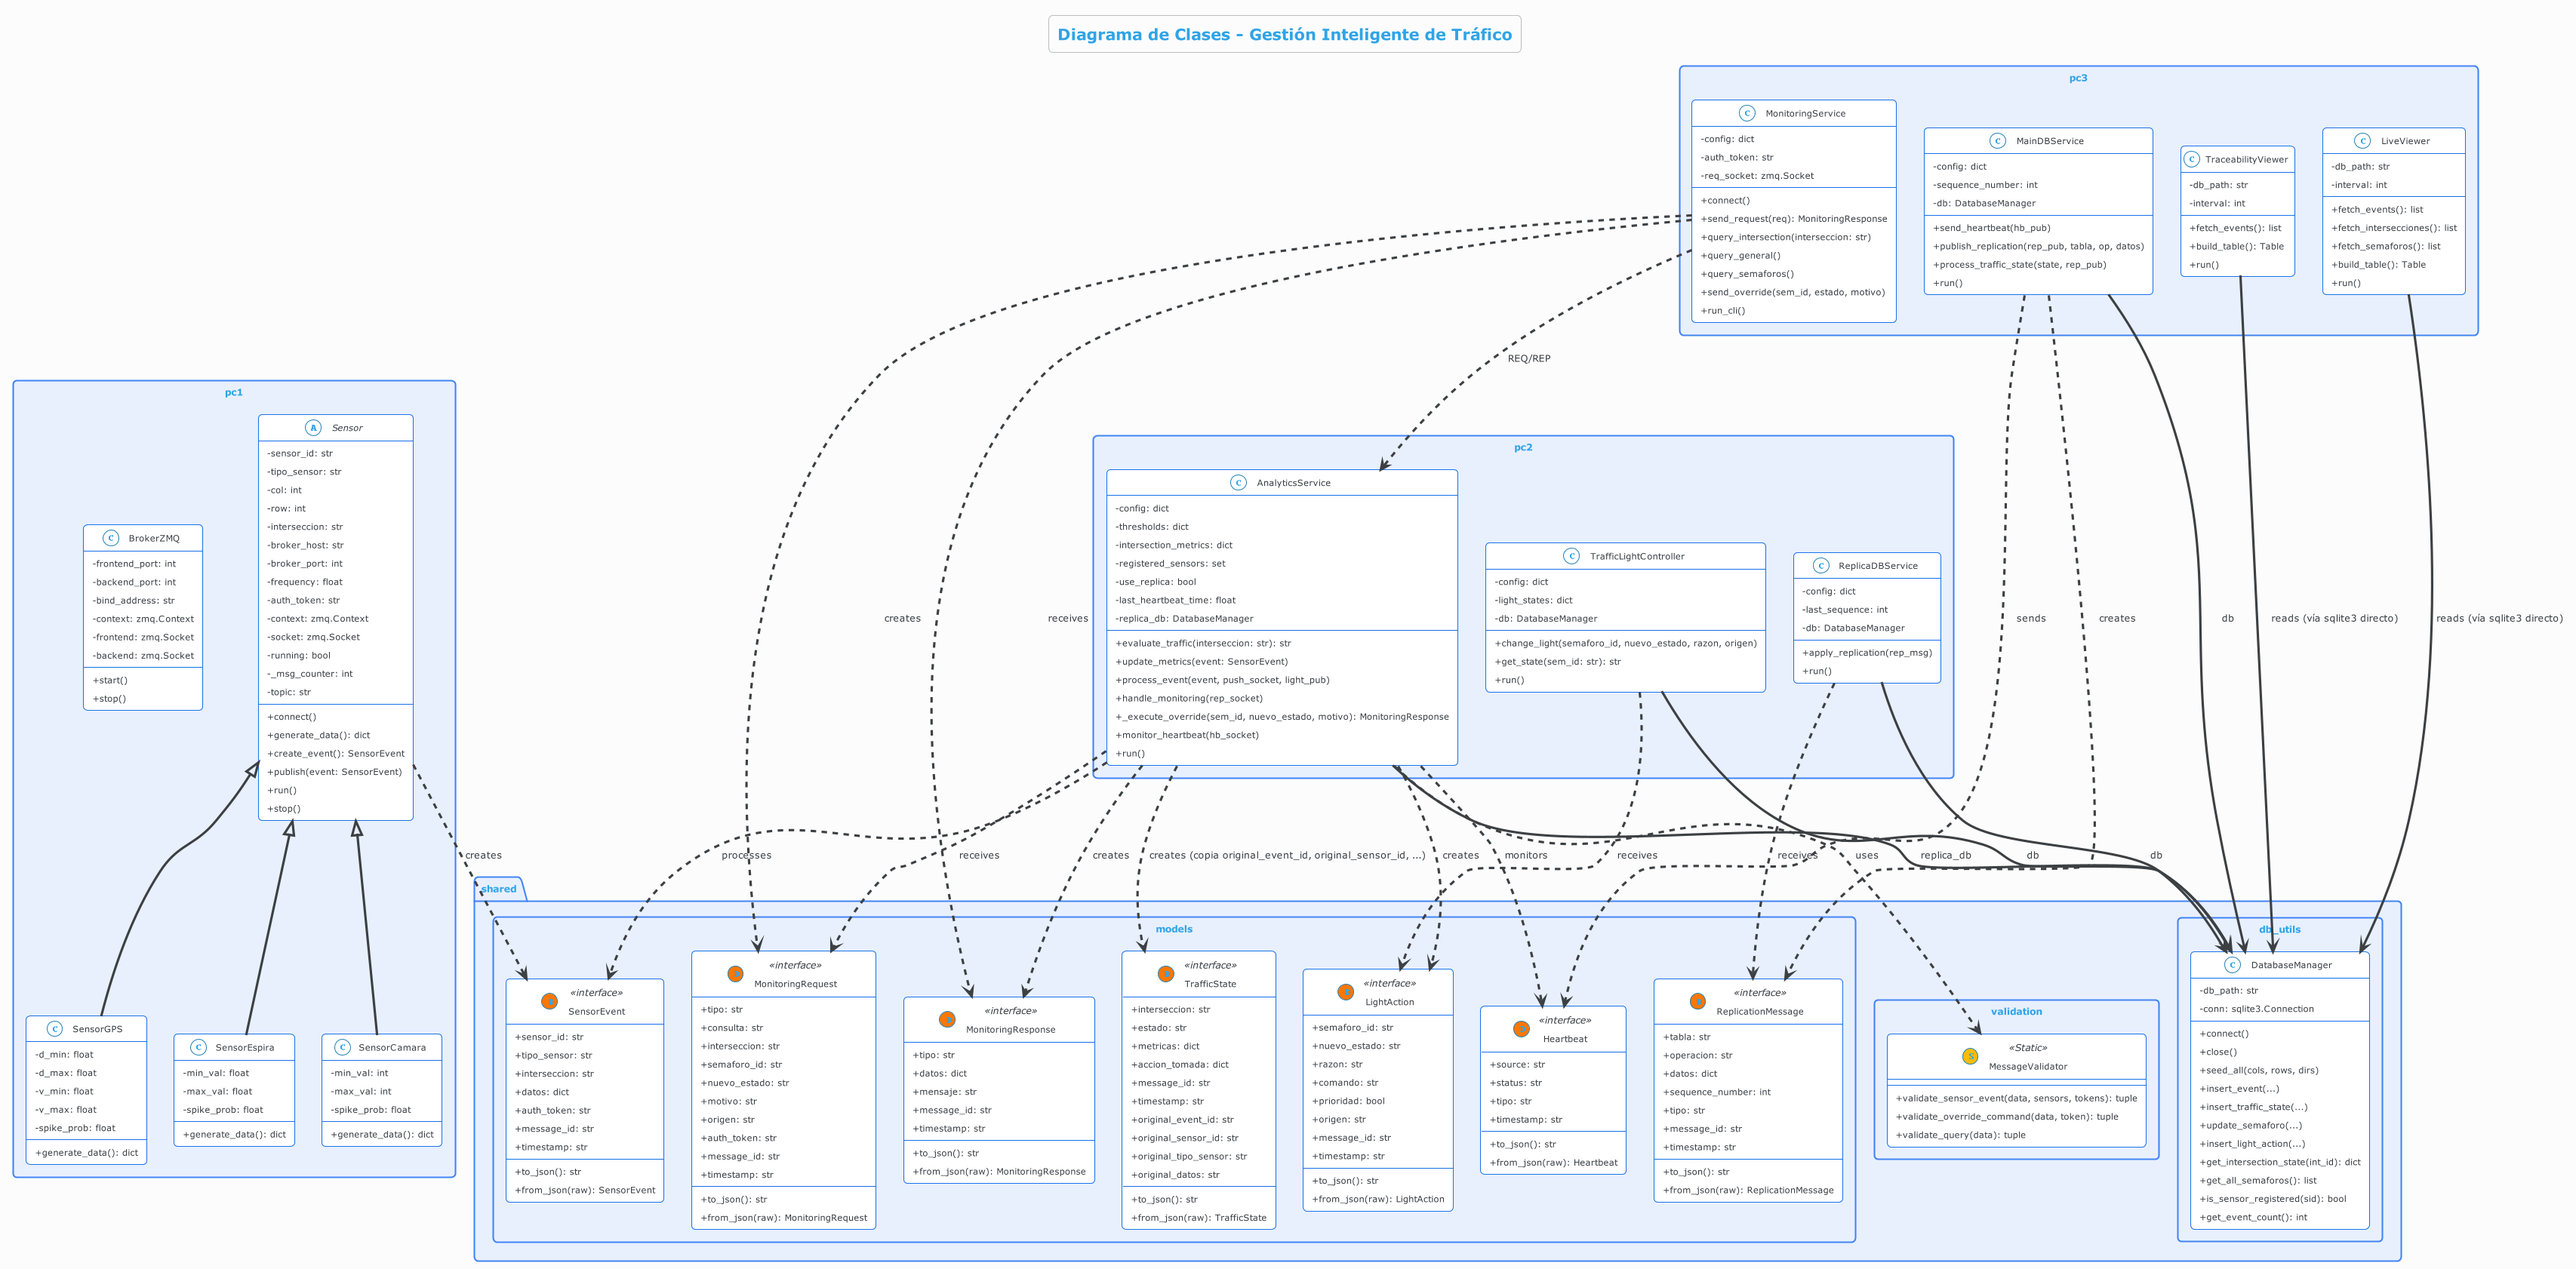
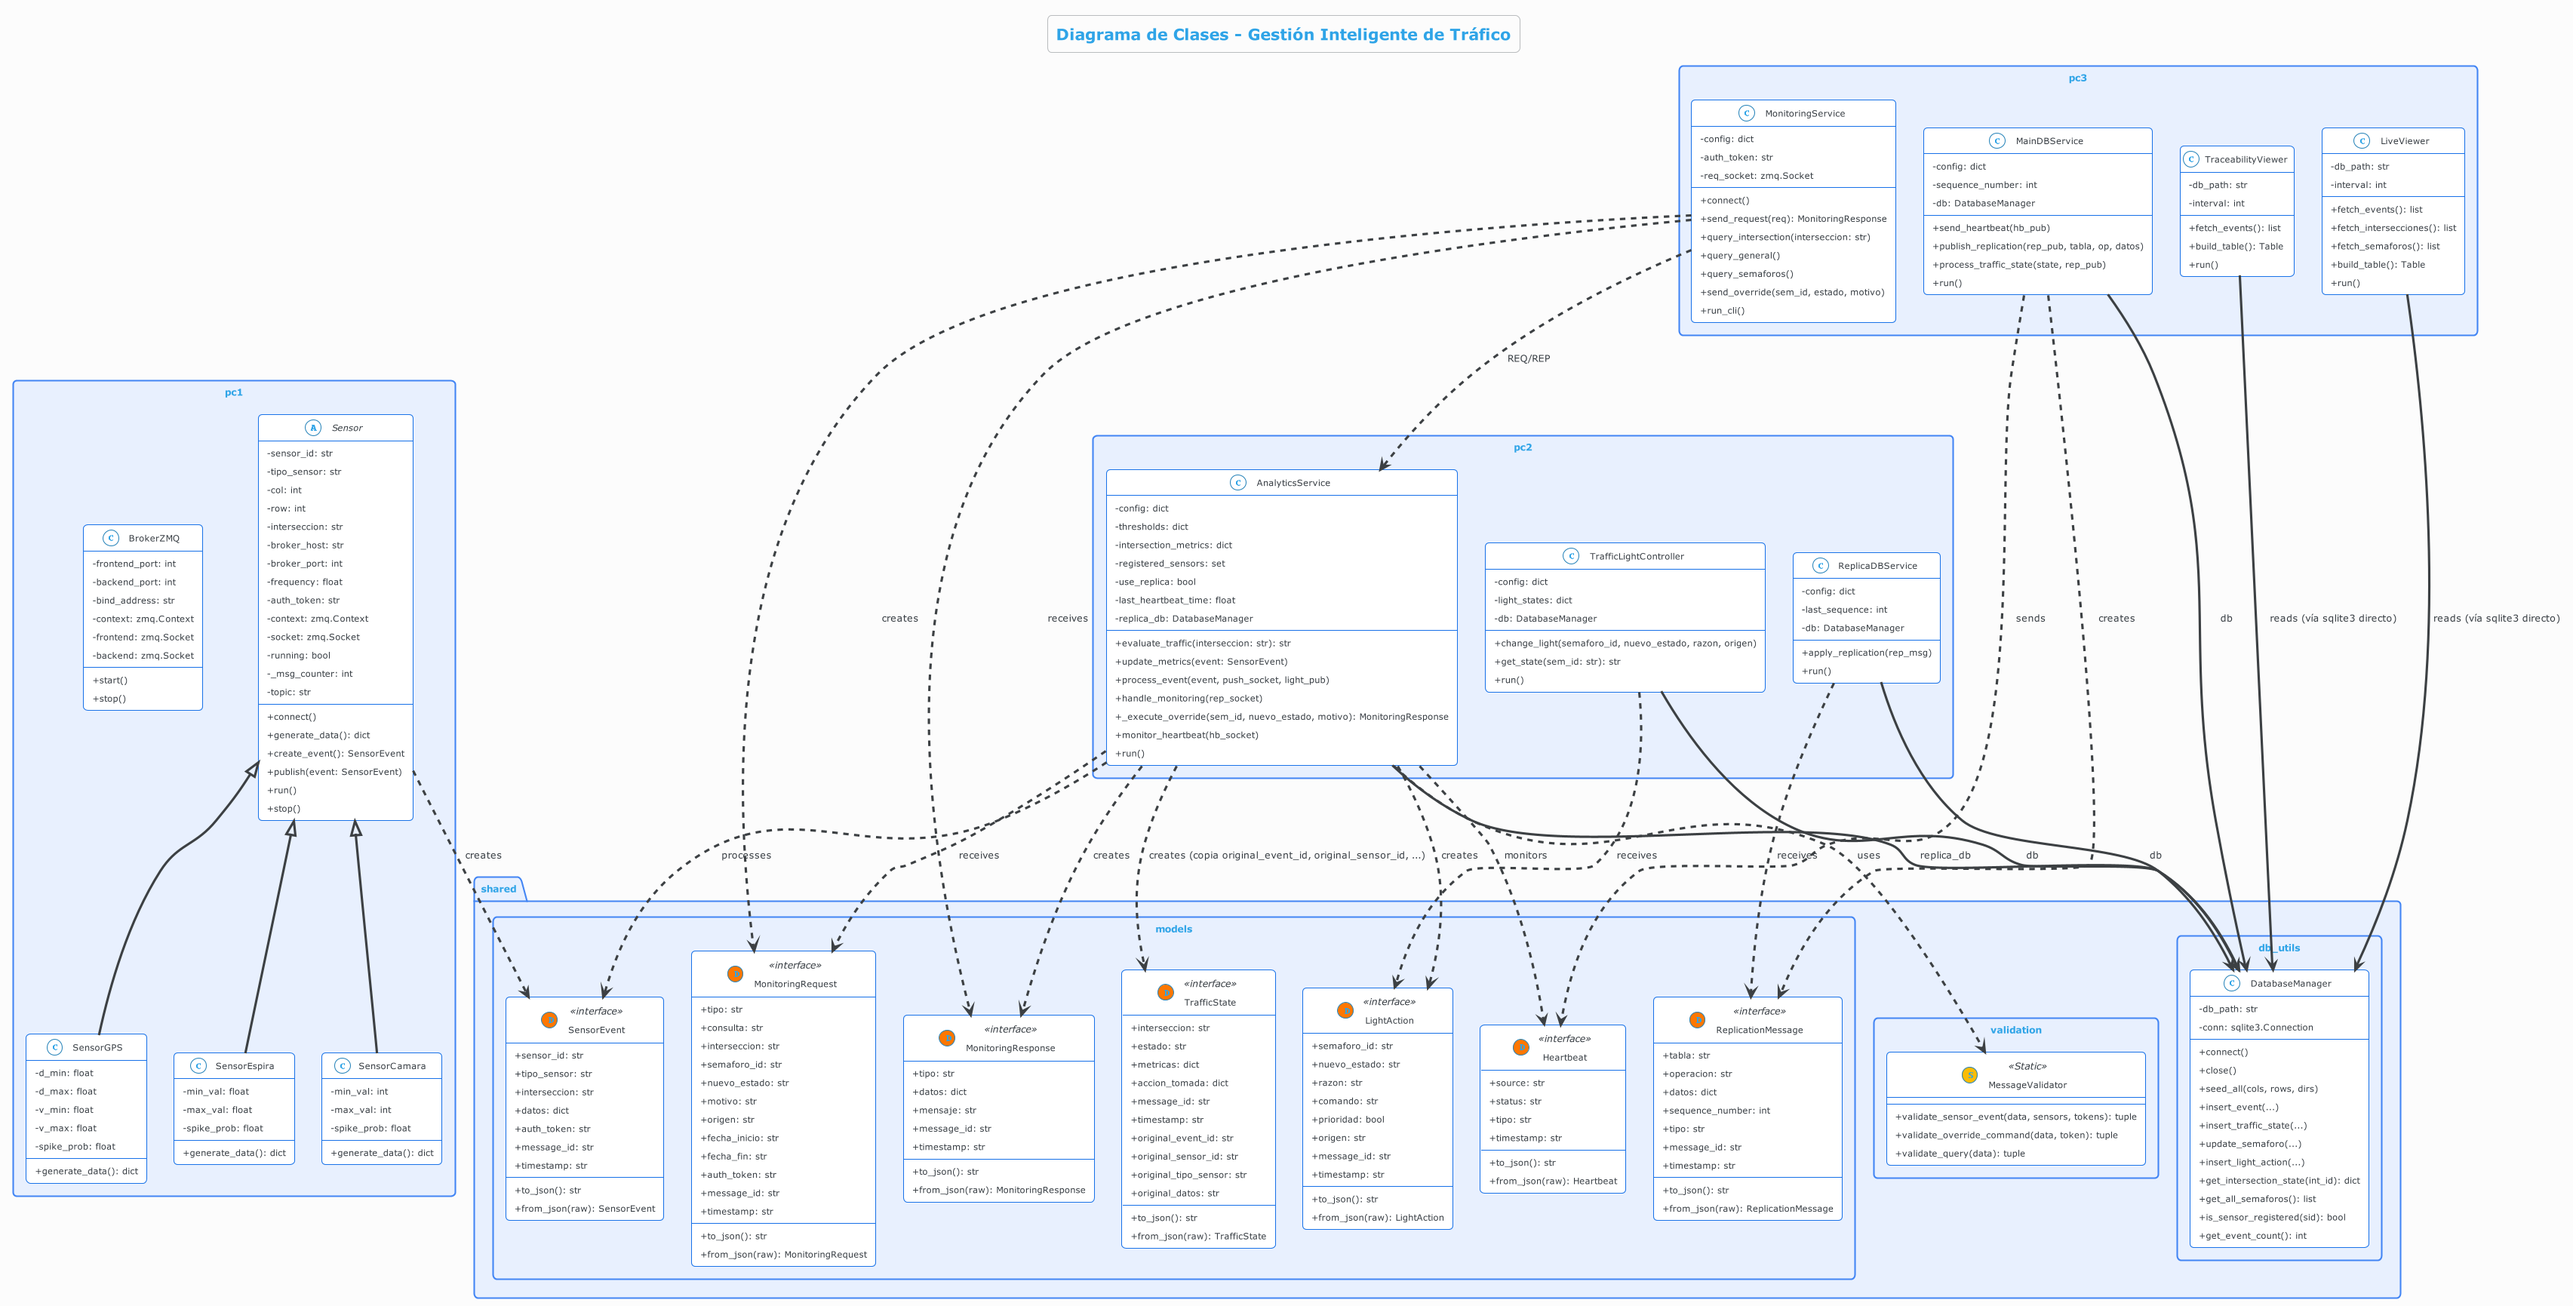
unifica fuente de timestamps en Machine A para evitar pérdida de datos en failover

diff --git a/pc2/analytics_service.py b/pc2/analytics_service.py
@@ -19,7 +19,7 @@ sys.path.insert(0, os.path.abspath(os.path.join(os.path.dirname(__file__), "..")
 
 from shared.models import (
     SensorEvent, TrafficState, LightAction,
-    MonitoringRequest, MonitoringResponse, Heartbeat
+    MonitoringRequest, MonitoringResponse, Heartbeat, _now
 )
 from shared.constants import (
     VERDE, ROJO, NORMAL, CONGESTION, PRIORIDAD,
@@ -216,38 +216,40 @@ class AnalyticsService:
                 if timer:
                     timer.cancel()
 
-            # Ola verde vertical: cambia N a VERDE en esta y filas adyacentes
-            affected_rows = [row]
-            if row > 1:
-                affected_rows.append(row - 1)
-            if row < self.grid["rows"]:
-                affected_rows.append(row + 1)
+            # Solo aplicar ola verde en la transicion normal → congestion
+            if prev_state != CONGESTION:
+                # Ola verde vertical: cambia N a VERDE en esta y filas adyacentes
+                affected_rows = [row]
+                if row > 1:
+                    affected_rows.append(row - 1)
+                if row < self.grid["rows"]:
+                    affected_rows.append(row + 1)
 
-            changed = []
-            for r in affected_rows:
-                sem_id = f"SEM_C{col}K{r}_N"
-                light_cmd = LightAction(
-                    semaforo_id=sem_id,
-                    nuevo_estado=VERDE,
-                    razon=REASON_CONGESTION,
-                    origen=ORIGIN_ANALYTICS,
-                )
-                topic = semaforo_topic(col, r)
-                light_pub.send_string(f"{topic} {light_cmd.to_json()}")
-                changed.append(sem_id)
-            logger.info(f"OLA VERDE C{col}: {changed}")
+                changed = []
+                for r in affected_rows:
+                    sem_id = f"SEM_C{col}K{r}_N"
+                    light_cmd = LightAction(
+                        semaforo_id=sem_id,
+                        nuevo_estado=VERDE,
+                        razon=REASON_CONGESTION,
+                        origen=ORIGIN_ANALYTICS,
+                    )
+                    topic = semaforo_topic(col, r)
+                    light_pub.send_string(f"{topic} {light_cmd.to_json()}")
+                    changed.append(sem_id)
+                logger.info(f"OLA VERDE C{col}: {changed}")
 
-            # Acción para la intersección principal
-            sem_id = f"SEM_C{col}K{row}_N"
-            prev = self.replica_db.get_semaforo_state(sem_id)
-            accion = {
-                "tipo": "CAMBIO_LUZ",
-                "semaforo_id": sem_id,
-                "estado_anterior": prev if prev in (VERDE, ROJO) else ROJO,
-                "estado_nuevo": VERDE,
-                "razon": REASON_CONGESTION,
-                "origen": ORIGIN_ANALYTICS,
-            }
+                # Acción para la intersección principal
+                sem_id = f"SEM_C{col}K{row}_N"
+                prev = self.replica_db.get_semaforo_state(sem_id)
+                accion = {
+                    "tipo": "CAMBIO_LUZ",
+                    "semaforo_id": sem_id,
+                    "estado_anterior": prev if prev in (VERDE, ROJO) else ROJO,
+                    "estado_nuevo": VERDE,
+                    "razon": REASON_CONGESTION,
+                    "origen": ORIGIN_ANALYTICS,
+                }
 
         elif estado == NORMAL and prev_state == CONGESTION:
             # Programa el retorno de esta intersección
@@ -268,6 +270,7 @@ class AnalyticsService:
             original_sensor_id=event.sensor_id,
             original_tipo_sensor=event.tipo_sensor,
             original_datos=json.dumps(event.datos, ensure_ascii=False),
+            original_timestamp=event.timestamp,
         )
 
         # 6. Push a la BD
@@ -281,13 +284,14 @@ class AnalyticsService:
         # 7. También almacena el evento en la BD réplica si está en modo de failover
         if self.use_replica:
             try:
+                ts = _now()
                 self.replica_db.insert_event(
                     event.message_id, event.sensor_id, event.interseccion,
-                    event.tipo_sensor, event.datos, event.timestamp
+                    event.tipo_sensor, event.datos, ts
                 )
                 self.replica_db.insert_traffic_state(
                     int_id, metrics["Q"], metrics["Vp"], metrics["D"],
-                    metrics["vehiculos_por_minuto"], estado, traffic_state.timestamp
+                    metrics["vehiculos_por_minuto"], estado, ts
                 )
             except Exception as e:
                 logger.error(f"Error al escribir en la BD réplica: {e}")
@@ -466,7 +470,7 @@ class AnalyticsService:
                 )
         else:
             try:
-                ts = traffic_state.timestamp
+                ts = _now()
                 self.replica_db.insert_traffic_state(
                     int_id,
                     metrics["Q"],

diff --git a/pc3/main_db.py b/pc3/main_db.py
@@ -16,7 +16,7 @@ from datetime import datetime, timezone
 
 sys.path.insert(0, os.path.abspath(os.path.join(os.path.dirname(__file__), "..")))
 
-from shared.models import TrafficState, ReplicationMessage, Heartbeat
+from shared.models import TrafficState, ReplicationMessage, Heartbeat, _now
 from shared.db_utils import DatabaseManager
 from shared.constants import TOPIC_SYNC, TOPIC_HEARTBEAT
 
@@ -104,13 +104,15 @@ class MainDBService:
                 tipo_sensor = "analysis"
                 datos = metrics
 
+            ts = state.timestamp
+
             self.db.insert_event(
                 evento_id=event_id,
                 sensor_id=sensor_id,
                 interseccion_id=int_id,
                 tipo_sensor=tipo_sensor,
                 datos=datos,
-                timestamp=state.timestamp,
+                timestamp=ts,
             )
 
             # Almacena el estado del trafico
@@ -121,7 +123,7 @@ class MainDBService:
                 D=metrics.get("D", 0),
                 veh_min=metrics.get("vehiculos_por_minuto", 0),
                 estado=state.estado,
-                timestamp=state.timestamp,
+                timestamp=ts,
             )
 
             # Publica la replicacion del evento
@@ -131,7 +133,7 @@ class MainDBService:
                 "interseccion_id": int_id,
                 "tipo_sensor": tipo_sensor,
                 "datos": datos,
-                "timestamp": state.timestamp,
+                "timestamp": ts,
             })
 
             # Publica la replicacion del estado del trafico
@@ -142,7 +144,7 @@ class MainDBService:
                 "D": metrics.get("D", 0),
                 "vehiculos_por_minuto": metrics.get("vehiculos_por_minuto", 0),
                 "estado": state.estado,
-                "timestamp": state.timestamp,
+                "timestamp": ts,
             })
 
             # Si se tomo una accion, se almacena y se replica
@@ -162,9 +164,9 @@ class MainDBService:
                     estado_nuevo=estado_new,
                     razon=razon,
                     origen=origen,
-                    timestamp=state.timestamp,
+                    timestamp=ts,
                 )
-                self.db.update_semaforo(sem_id, estado_new, state.timestamp)
+                self.db.update_semaforo(sem_id, estado_new, ts)
 
                 self.publish_replication(rep_pub, "acciones_semaforo", "INSERT", {
                     "accion_id": accion_id,
@@ -173,12 +175,12 @@ class MainDBService:
                     "estado_nuevo": estado_new,
                     "razon": razon,
                     "origen": origen,
-                    "timestamp": state.timestamp,
+                    "timestamp": ts,
                 })
                 self.publish_replication(rep_pub, "semaforos", "UPDATE", {
                     "semaforo_id": sem_id,
                     "estado_actual": estado_new,
-                    "timestamp": state.timestamp,
+                    "timestamp": ts,
                 })
 
         except Exception as e:

diff --git a/shared/models.py b/shared/models.py
@@ -62,6 +62,7 @@ class TrafficState:
     original_sensor_id: str = ""
     original_tipo_sensor: str = ""
     original_datos: str = ""  # JSON string del payload original del sensor
+    original_timestamp: str = ""  # timestamp original del SensorEvent (PC del sensor)
 
     def to_json(self) -> str:
         return json.dumps(asdict(self), ensure_ascii=False)

diff --git a/README.md b/README.md
@@ -61,7 +61,8 @@ Monitoreo> 1 B2              # Consultar estado de intersección B2
 Monitoreo> 2                   # Estado general de toda la cuadrícula
 Monitoreo> 3                   # Listar todos los semáforos
 Monitoreo> 4 SEM_B2_N VERDE ambulancia   # Override manual
-Monitoreo> 5                   # Salir
+Monitoreo> 5 A1                # Consulta histórica de A1
+Monitoreo> 6                   # Salir
 ```
 
 ## Tests
@@ -87,6 +88,8 @@ Script automatizado que ejecuta un cronograma de 160 segundos demostrando todas 
 ```bash
 python demo_sustentacion/demo_sustentacion.py
 ```
+
+> **Nota:** El demo se conecta al broker de PC1 vía PUB (puerto 5555). Si no se necesita el ruido de los sensores reales en la base de datos, se puede correr solo el broker sin los 45 sensores: `python pc1/broker.py` en lugar de `python pc1/start_pc1.py`.
 
 ### Cronograma
 
@@ -159,7 +162,7 @@ Editar `config.json` para cambiar:
 | `thresholds.VP_MIN` | Velocidad mínima antes de congestión | 35 km/h |
 | `thresholds.D_MAX` | Densidad máxima antes de congestión | 20 veh/km |
 | `heartbeat_interval_seconds` | Intervalo de heartbeat | 5s |
-| `heartbeat_timeout_seconds` | Timeout para failover | 15s |
+| `heartbeat_timeout_seconds` | Timeout para failover | 8s |
 | `pc*_host` | IPs de cada PC | localhost |
 
 ## Estructura del Proyecto

diff --git a/GUIA_OPERACION.md b/GUIA_OPERACION.md
@@ -74,8 +74,15 @@ Requerida para la sustentación final y pruebas de red.
     "pc2_host": "192.168.1.11",  // IP del PC de Analítica
     "pc3_host": "192.168.1.12"   // IP del PC de Persistencia
     ```
-    *Nota: El archivo `config.json` debe ser idéntico en las 3 máquinas.*
+     *Nota: El archivo `config.json` debe ser idéntico en las 3 máquinas.*
 3.  **Ejecución:** Sigue el mismo orden de encendido en cada máquina física.
+
+### **Opción C: Demo automatizada (160s)**
+Script `demo_sustentacion/demo_sustentacion.py` que simula congestión, ambulancias y failover automáticamente. El demo se conecta al broker de PC1 vía PUB y a Analytics vía REQ; requiere PC1 (broker), PC2 y PC3 funcionando.
+
+- **Con sensores reales:** `python pc1/start_pc1.py` (broker + 45 sensores)
+- **Solo broker (demo más limpio):** `python pc1/broker.py` (sin ruido de sensores en la DB)
+- **Ejecutar demo (desde PC3 o cualquier máquina con el proyecto):** `python demo_sustentacion/demo_sustentacion.py`
 
 ---
 

diff --git a/docs/informe_entrega2.md b/docs/informe_entrega2.md
@@ -97,7 +97,7 @@ Ambos visores usan la función `fmt_time()` que:
 3. Convierte a la zona horaria local con `dt.astimezone()`.
 4. Formatea como `HH:MM:SS`.
 
-Esto corrige el problema donde los timestamps se mostraban en UTC (ej. 01:37) en lugar de la hora local (ej. 08:37 para UTC-7).
+Esto corrige el problema donde los timestamps se mostraban en UTC (ej. 01:37) en lugar de la hora local (ej. 06:37 para UTC-5).
 
 ---
 
